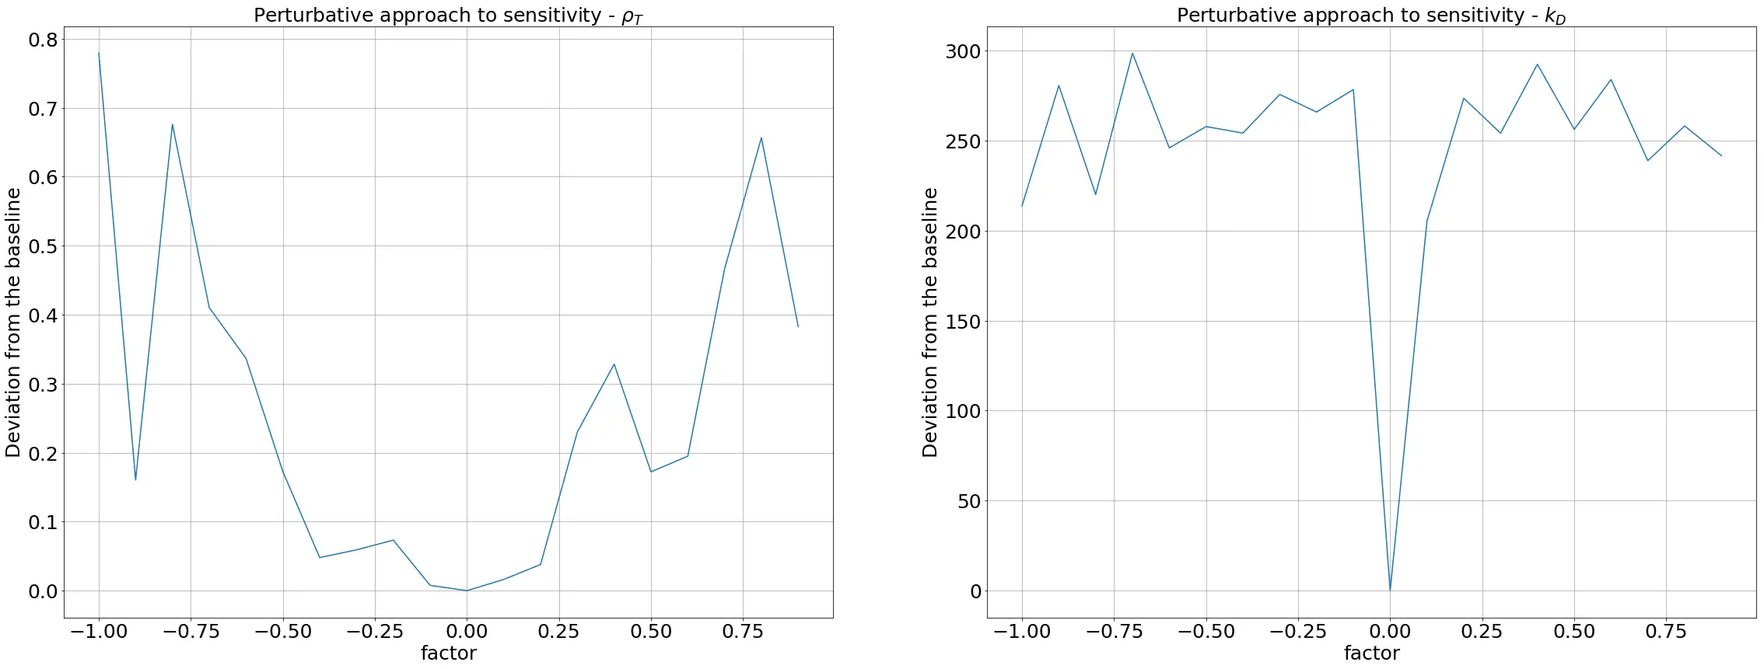
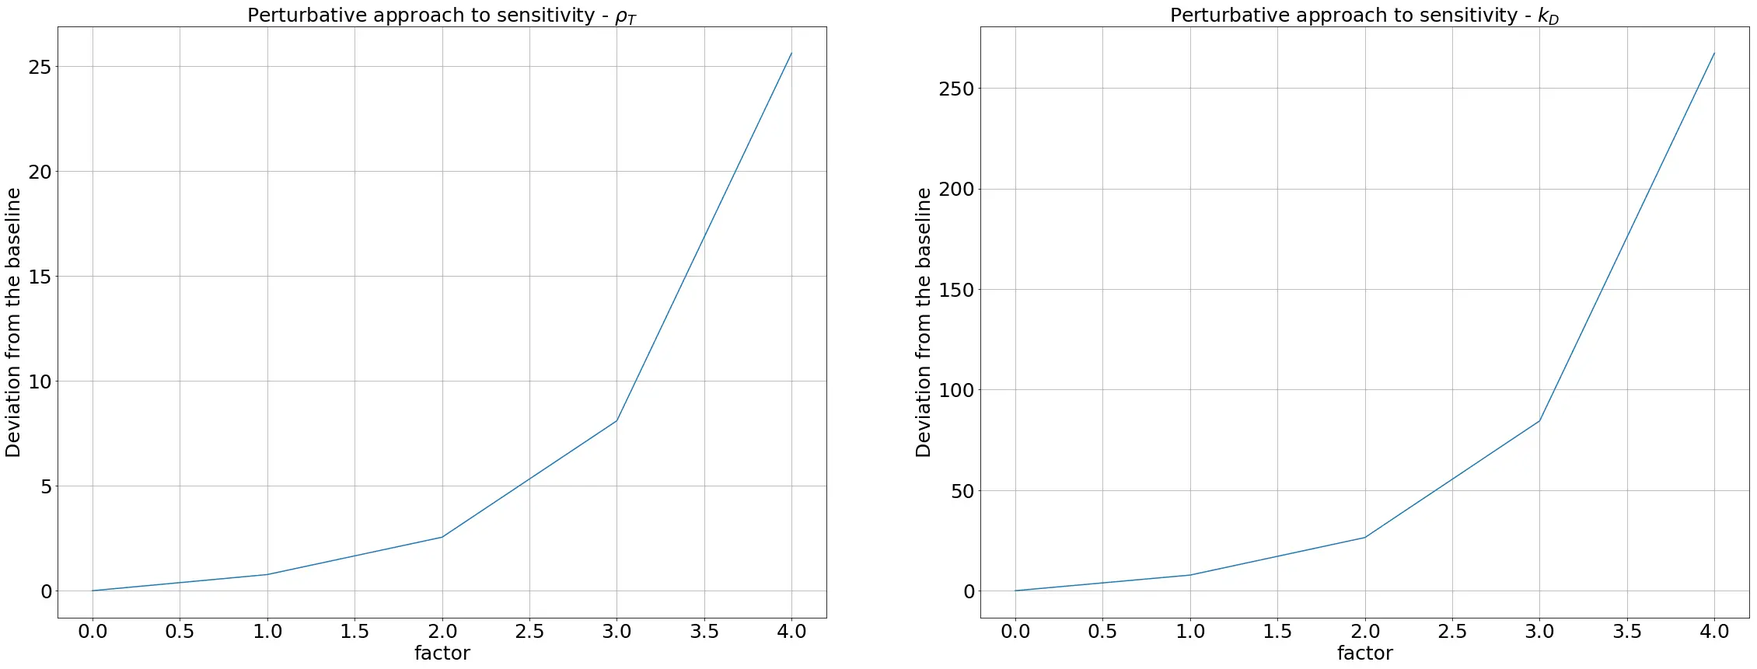
deploy: 0897da0496ac55373201c707f7b9b6d2a4cecc0c

diff --git a/Model/Kill_Switch/index.html b/Model/Kill_Switch/index.html
@@ -1,3 +1,3 @@
 <html lang="en"><head><meta charset="UTF-8"><meta name="viewport" content="width=device-width,initial-scale=1"><title>Kill Switch | SugarGain | iGEM BITS Goa</title><script src="https://2020.igem.org/common/MathJax-2.5-latest/MathJax.js?config=TeX-AMS-MML_HTMLorMML"></script><link href="../../css/content.css" rel="stylesheet"></head><body><nav id="main-nav"><div class="navbar bg-none nav-transparent"><div class="row" id="navbar-row"><a class="navbar-brand" href="/wiki/"><i class="navbar-logo"></i><span> Sugar<strong>Gain</strong></span></a><div class="controls h-100 d-flex align-items-center"><div class="align-items-center" id="themeSwitchWrapper"><i class="icon-light"></i><div id="themeSwitch"><label class="switch" for="themeSwitchInput"><input type="checkbox" id="themeSwitchInput"><span class="slider round"></span></label></div><i class="icon-dark"></i></div><button class="btn" id="menuSwitch"><div class="menu-icon"></div></button></div></div><div class="row w-100" id="progress-container-wrapper"><div id="progress-container"><div id="nav-progress-bar"></div></div></div></div><div id="fullscreenMenuWrapper"><div class="w-100 h-100" id="fullscreenMenu"><div class="container-fluid d-flex align-items-stretch pr-0 flex-column"><div class="row nav-header w-100"><div class="col-xl-3 col-lg-2"><div class="teamLogo"></div></div><div class="col-xl-6 col-lg-8"></div><div class="col-xl-3 col-lg-2"></div></div><div class="row flex-grow-1 w-100"><div class="col-xl-3 col-lg-2"></div><div class="col-xl-6 col-lg-8 d-flex justify-content-between flex-column" id="menuContent"><div class="row"><div class="col-md-6" id="nav-headings"><ul role="tablist"><li><a href="javascript:;" id="Project-tab">Project</a><ul class="mobile-nav-items"><li><a href="/wiki/Description">Description</a></li><li><a href="/wiki/Design">Design</a></li><li><a href="/wiki/Model">Model</a></li><li><a href="/wiki/Engineering">Engineering</a></li><li><a href="/wiki/Safety">Safety</a></li><li><a href="/wiki/Implementation">Implementation</a></li></ul></li><li><a href="javascript:;" id="Human_Practices-tab">Human Practices</a><ul class="mobile-nav-items"><li><a href="/wiki/Human_Practices">Human-Centered Design</a></li><li><a href="/wiki/Education">Science Communication</a></li><li><a href="/wiki/Accessibility">Accessibility</a></li></ul></li><li><a href="javascript:;" id="Parts-tab">Parts</a><ul class="mobile-nav-items"><li><a href="/wiki/Part_Collection">Part Collection</a></li><li><a href="/wiki/Parts">Parts</a></li></ul></li><li><a href="javascript:;" id="Journal-tab">Journal</a><ul class="mobile-nav-items"><li><a href="/wiki/Notebook">Notebook</a></li><li><a href="/wiki/Experiments">Experiments</a></li><li><a href="/wiki/Appendix">Appendix</a></li></ul></li><li><a href="javascript:;" id="Team-tab">Team</a><ul class="mobile-nav-items"><li><a href="/wiki/Team">Team</a></li><li><a href="/wiki/Attributions">Attributions</a></li><li><a href="/wiki/Collaborations">Collaborations</a></li></ul></li><li><a href="javascript:;" id="Contribution-tab">Contribution</a><ul class="mobile-nav-items"><li><a href="/wiki/Contribution">Overview</a></li><li><a href="/wiki/Software">Software</a></li></ul></li><li><a href="javascript:;" id="Judging-tab">Judging</a><ul class="mobile-nav-items"><li><a href="/wiki/Judging">Judging</a></li></ul></li><li><a href="javascript:;" id="Other_Areas-tab">Other Areas</a><ul class="mobile-nav-items"><li><a href="/wiki/Dance">Dance</a></li><li><a href="/wiki/Policy">Policy</a></li><li><a href="/wiki/Entrepreneurship">Entrepreneurship</a></li></ul></li></ul></div><div class="col-6" id="nav-items"><div class="tab-content"><div class="tab-pane" id="Project-pane"><ul><li><a href="/wiki/Description">Description</a></li><li><a href="/wiki/Design">Design</a></li><li><a href="/wiki/Model">Model</a></li><li><a href="/wiki/Engineering">Engineering</a></li><li><a href="/wiki/Safety">Safety</a></li><li><a href="/wiki/Implementation">Implementation</a></li></ul></div><div class="tab-pane" id="Human_Practices-pane"><ul><li><a href="/wiki/Human_Practices">Human-Centered Design</a></li><li><a href="/wiki/Education">Science Communication</a></li><li><a href="/wiki/Accessibility">Accessibility</a></li></ul></div><div class="tab-pane" id="Parts-pane"><ul><li><a href="/wiki/Part_Collection">Part Collection</a></li><li><a href="/wiki/Parts">Parts</a></li></ul></div><div class="tab-pane" id="Journal-pane"><ul><li><a href="/wiki/Notebook">Notebook</a></li><li><a href="/wiki/Experiments">Experiments</a></li><li><a href="/wiki/Appendix">Appendix</a></li></ul></div><div class="tab-pane" id="Team-pane"><ul><li><a href="/wiki/Team">Team</a></li><li><a href="/wiki/Attributions">Attributions</a></li><li><a href="/wiki/Collaborations">Collaborations</a></li></ul></div><div class="tab-pane" id="Contribution-pane"><ul><li><a href="/wiki/Contribution">Overview</a></li><li><a href="/wiki/Software">Software</a></li></ul></div><div class="tab-pane" id="Judging-pane"><ul><li><a href="/wiki/Judging">Judging</a></li></ul></div><div class="tab-pane" id="Other_Areas-pane"><ul><li><a href="/wiki/Dance">Dance</a></li><li><a href="/wiki/Policy">Policy</a></li><li><a href="/wiki/Entrepreneurship">Entrepreneurship</a></li></ul></div></div></div></div><div class="row"><div id="contact-links"><ul><li><a href="https://instagram.com/igem_bits" target="_blank" rel="noopener"><i class="insta"></i><span>Instagram</span></a></li><li><a href="https://twitter.com/igembitsgoa" target="_blank" rel="noopener"><i class="twitter"></i><span>Twitter</span></a></li><li><a href="mailto:igembitsgoa@gmail.com" target="_blank" rel="noopener"><i class="email"></i><span>Email</span></a></li><li><a href="/wiki/Sample"><i class="sample"></i><span>Sample</span></a></li></ul></div></div></div><div class="col-xl-3 col-lg-2"></div></div><div class="row nav-footer w-100"><div class="col-xl-3 col-lg-2"></div><div class="col-xl-6 col-lg-8"></div><div class="col-xl-3 col-lg-2"></div></div></div></div></div></nav><style>header {
     background-image: url( ../../assets/img/Description--josh-withers.jpg);
-}</style><header class="d-flex justify-content-center"><div class="custom-container d-flex align-items-end justify-content-between"><div id="heading"><h1>Kill Switch</h1></div><a href="https://unsplash.com/photos/lZ4xZZuk8iA" target="_blank" rel="noopener"><span id="bg-attribution" title="Photo by Josh Withers on Unsplash" data-placement="top"></span></a></div></header><main class="hello"><div class="custom-container"><div class="row"><div class="sidebar"><div class="nav" id="contents"><ul></ul></div></div><div class="content"><article><h1>Introduction</h1><p>The first step involved in modelling the kill switch was to carry out a literature survey to understand the functioning of the module at a molecular level and understand the various mechanisms and reactions involved.</p><p>The kill switch has been designed to be activated by exposure to atmospheric concentrations of oxygen. Oxygen binds to the FNR promoter, thereby suppressing the transcription of the antitoxin and the absence of which leads to an accumulation of toxin in the cell, leading to cell death. Our model was based on the mechanism proposed by Gelens et al. <a href="#citation1">2013</a> with certain modifications that are specific to our construct. Our model involves an <strong>inducible transcription</strong> of the toxin, and whose kinetics are governed by appropriate Hill equations. The diagram below provides a detailed account of the processes and the reaction pathways involved.</p><blockquote><p>Image describing the construct with all its products.</p></blockquote><p>Six different chemical species have to be accounted for: the toxin mRNA (\( M_T \)), the antitoxin mRNA (\( M_A \)), the toxin (\( T \)), the antitoxin (\( A \)), a complex of the form \( TA \) (\( C_1 \)), and another complex of the form \( TAT \) (\( C_2 \)); the concentrations of these species are determined by forming ordinary differential equations.</p><p>We make the following assumptions in our model:</p><ol><li><p>Our inducible mechanisms follow Hill characteristics.</p></li><li><p>(<strong>Quasi-steady state approximation</strong>) Due to a difference in the time scales involved between binding/unbinding of FNR and oxygen (happening in the order of milliseconds) and transcription/translation (happening in the order of minutes), we assume that the concentration of the oxidised FNR promoter, \( [FNR-O_2] \) remains time-invariant, that is, \( \frac{d[FNR-O_2]}{dt} = 0 \).</p></li><li><p>The transcription rates for both the toxin and antitoxin mRNAs were assumed to be approximately similar.</p></li><li><p>The initial concentrations of all chemical species was assumed to be zero.</p></li></ol><h1>Differential Equations</h1><p>We write the coupled <dfn>ODEs ~ Ordinary Differential Equations</dfn> that describe the reactions illustrated above as follows.</p><p>$$ \begin{aligned} \frac{d[M_A]}{dt} &amp;= \rho_A\frac{C_N}{1 + k_D[O_2]} - \delta_A[M_A] \\ \frac{d[M_T]}{dt} &amp;= \rho_TC_N - \delta_T[M_T] \\ \frac{d[A]}{dt} &amp;= \beta_A[M_A] + \theta_c[C_1] - d_A[A] - \alpha_c[T][A] \\ \frac{d[T]}{dt} &amp;= \beta_T[M_T] + \theta_c[C_1] + Fd_A[C_1] + 2Fd_A[C_2] - d_T[T] - \alpha_c[T][A] - \alpha_c[C_1][A] \\ \frac{d[C_1]}{dt} &amp;= \alpha_c[A][T] + \theta_c[C_2] - \theta_c[C_1] - d_T[C_1] - Fd_A[C_1] - \alpha_c[C_1][T] \\ \frac{d[C_2]}{dt} &amp;= \alpha_c[C_1][T] - \theta_c[C_2] - d_T[C_2] - Fd_A[C_2]\\ \end{aligned} $$</p><p>The parameters used in the above set of equations along with their description and numerical values are tabulated below. In the absence of literature on the \( FNR/O_2 \) interactions, we have made educated guessed about some parameter values.</p><table><caption id="table1modelparamtersandtheirnumericalvalues">Table 1: Model paramters and their numerical values</caption><thead><tr><th style="text-align:center">Parameter</th><th style="text-align:center">Description</th><th style="text-align:center">Value</th><th style="text-align:center">Units</th><th style="text-align:center">Reference</th></tr></thead><tbody><tr><td style="text-align:center">\( \rho_A \)</td><td style="text-align:center">Transcription rate of the Antitoxin</td><td style="text-align:center">\(0.1333\)</td><td style="text-align:center">\(\text{s}^{-1}\)</td><td style="text-align:center"><a href="#citation1">Gelens et. al., 2013</a></td></tr><tr><td style="text-align:center">\( \rho_T \)</td><td style="text-align:center">Transcription rate of the Toxin</td><td style="text-align:center">\(0.1333\)</td><td style="text-align:center">\(\text{s}^{-1}\)</td><td style="text-align:center"><a href="#citation1">Gelens et. al., 2013</a></td></tr><tr><td style="text-align:center">\( \beta_A \)</td><td style="text-align:center">Translation rate of the Antitoxin</td><td style="text-align:center">\(0.139\)</td><td style="text-align:center">\(\text{s}^{-1}\)</td><td style="text-align:center"><a href="#citation1">Gelens et. al., 2013</a></td></tr><tr><td style="text-align:center">\( \beta_T \)</td><td style="text-align:center">Translation rate of the Toxin</td><td style="text-align:center">\(0.033\)</td><td style="text-align:center">\(\text{s}^{-1}\)</td><td style="text-align:center"><a href="#citation1">Gelens et. al., 2013</a></td></tr><tr><td style="text-align:center">\( \delta_A \)</td><td style="text-align:center">Decay rate of the Antitoxin mRNA</td><td style="text-align:center">\(0.00203\)</td><td style="text-align:center">\(\text{s}^{-1}\)</td><td style="text-align:center"><a href="#citation1">Gelens et. al., 2013</a></td></tr><tr><td style="text-align:center">\( \delta_T \)</td><td style="text-align:center">Decay rate of the Toxin mRNA</td><td style="text-align:center">\(0.00203\)</td><td style="text-align:center">\(\text{s}^{-1}\)</td><td style="text-align:center"><a href="#citation1">Gelens et. al., 2013</a></td></tr><tr><td style="text-align:center">\( d_A \)</td><td style="text-align:center">Decay rate of the Antitoxin</td><td style="text-align:center">\(2.8881\times 10^{-4}\)</td><td style="text-align:center">\(\text{s}^{-1}\)</td><td style="text-align:center"><a href="#citation1">Gelens et. al., 2013</a></td></tr><tr><td style="text-align:center">\( d_T \)</td><td style="text-align:center">Decay rate of the Toxin</td><td style="text-align:center">\(0.00115524\)</td><td style="text-align:center">\(\text{s}^{-1}\)</td><td style="text-align:center"><a href="#citation1">Gelens et. al., 2013</a></td></tr><tr><td style="text-align:center">\( F \)</td><td style="text-align:center">Decay rate of the Antitoxin in the \( AT \) complex</td><td style="text-align:center">\(0.2\)</td><td style="text-align:center">-</td><td style="text-align:center"><a href="#citation1">Gelens et. al., 2013</a></td></tr><tr><td style="text-align:center">\( \alpha_c \)</td><td style="text-align:center">Rate of complex formation</td><td style="text-align:center">\(2\times 10^6\)</td><td style="text-align:center">\(\text{M}^{-1}\text{s}^{-1}\)</td><td style="text-align:center"><a href="#citation1">Gelens et. al., 2013</a></td></tr><tr><td style="text-align:center">\( \theta_c \)</td><td style="text-align:center">Rate of complex decay</td><td style="text-align:center">\(7.14972\times 10^{-6}\)</td><td style="text-align:center">\(\text{M}^{-1}\text{s}^{-1}\)</td><td style="text-align:center"><a href="#citation1">Gelens et. al., 2013</a></td></tr><tr><td style="text-align:center">\( C_N \)</td><td style="text-align:center">Plasmid copy number</td><td style="text-align:center">16</td><td style="text-align:center">-</td><td style="text-align:center"></td></tr><tr><td style="text-align:center">\( k_D \)</td><td style="text-align:center">Dissociation constant for FNR and \( O_2 \)</td><td style="text-align:center">\(800\times10^{-6}\)</td><td style="text-align:center">\(\text{s}^{-1}\)</td><td style="text-align:center"><a href="#citation2">Sutton, V. R., et al., 2012</a></td></tr></tbody></table><h1>Simulations of the model</h1><p>As we had no lab access, we could not verify the values of parameters through experimental analysis; however, we have designed experiments that we would have conducted to verify the parameter values through curve fitting. These experiments can be found on our <a href="/Experiments">experiments</a> page. The next step would be to solve the above ODEs numerically to obtain the concentrations of free toxin and antitoxin.</p><p>To activate the kill switch, we require a &quot;trigger&quot;, or a change in the surrounding oxygen concentration. This trigger was achieved by modelling the oxygen concentration as a step function, \( O(t) \), that represents the concentration of oxygen in the environment of the cell. This function can be expressed as</p><p>$$ O(t) = O_1H(300 - t) + O_2H(t - 300) $$</p><p>where \( O_1 \text{ and } O_2\) are the oxygen concentrations inside and outside the sugarcane matrix, respectively and \( H(x) \) is the Heaviside step function.</p><p>This function was constructed such that the kill switch would be activated at the \(t = 300 \text{ min}\) mark. This time instance was selected to allow us to observe the steady state concentrations of both, the toxin and antitoxin. The jump in the concentration, given by the point of discontinuity in the step function, corresponds to the exposure of the cell to an aerobic environment, with atmospheric levels of oxygen.</p><p>The ODEs were solved numerically using SciPy's <code>solve_ivp</code> method using the <a href="/Appendix">Radau</a> algorithm and the concentrations of major chemical species were plotted against time.</p><div class="image"><img src="../../assets/img/Kill_Switch--KillSwitchGraph.png" alt="Simulation of the kill switch construct"><p>Figure 1: Simulation of the kill switch construct</p></div><p>From the graph, it is seen that around the \(t = 300 \text{ min}\) mark (when the kill switch is activated), the concentration of free ccdA begins to drop, reaches a minimum and that of free ccdB beings to rise. After a while, the only major chemical species in the cellular system are the toxin (ccdB) and a highly stable TAT complexe. Therefore, the toxin accumulates in the cell and reaches a high enough concentration to kill it.</p><h1>Sensitivity Analysis</h1><p>After establishing the models for the system, we wanted to carry out a sensitivity analysis to identify parameters which could be used to fine-tune our kill switch. As a part of the sensitivity analysis, we selected a few model parameters and varied them by adding Gaussian noise proportional to a given factor. The change in the output as a result of this perturbation was measured and studied.</p><div class="image"><img src="../../assets/img/Kill_Switch--Sensitivity.png" alt="Sensitivity analysis of the model"><p>Figure 2: Sensitivity analysis of the model</p></div><p>The results of our sensitivity analysis showed that manipulating parameters associated with the FNR promoter would result in a more significant diference in the model output. Therefore, the amount of toxin produced, and consequently the growth rate of the bacteria can be controlled more easily by varying the \(k_D\) associated with the FNR promoter. Based on these results, we concluded that somehow altering \(k_D\) would lead to a more fine-tuned kill switch.</p><p>Next we wanted to exclusively study the the variation of toxin concentration as a function of the \( k_D \) values. To do this, we used the same approach as mentioned above, where we added a randomized gaussian noise to the \( k_D \) value proportional to a factor (given by \( \alpha\Delta \) in the plot) and studied how the concentration of ccdB would change. The plot we obtained is illustrated below.</p><div class="image"><img src="../../assets/img/Kill_Switch--ccdBvsKd.png" alt="The variation of ccdB toxin concentration with varying k_D values"><p>Figure 3: The variation of ccdB toxin concentration with varying k_D values</p></div><p>This analysis showed us that altering \(k_D\) is an effective tool to increase the sensitivity of the kill switch as the graph indicates shorter response times for a perturbed \(k_D\). The next question was how could this alteration be acheived? Since we did not have access to a lab, we have hypothesised below a few ways that this could be performed.</p><p>The fine-tuning of the kill switch could be achieived by altering the expression rates for the ccdB gene. There are two possible ways to accomplish this:</p><ul><li>Inducing mutations in the promoter region of the gene to alter its affinity towards RNA Polymerase — which would affect the trascription and translation rates; or</li><li>Using the promoter regions of genes with rates in the desired range.</li></ul><p>We can also control the binding of FNR/O2 to its binding site by either:</p><ul><li>Inducing mutations in the operator region to alter the affinities of FNR to the binding site; or</li><li>Inducing mutation in the repressor proteings by altering region that encodes for FNR thereby changing its affinity to the operator site.</li></ul><h1>Conclusion</h1><p>From the model we created, we have derived the following conclusions:</p><ol><li>The arrest of growth can be observed around 50-70 minutes after the kill switch has been activated.</li><li>This time can be brought down further by tuning the model to change the \( k_D \) value for FNR/O2.</li></ol><p>We would also like to state at this point that it is not enitirely certain if a changed \(k_D\) would really be effective in real-life. Although our in-silico analysis shows that some change is possible, it cannot be formally verified unless experiments are conducted.</p></article><div class="d-flex justify-content-between my-5"></div><article id="references"><h1>References</h1><ol><li id="citation1"><p class="author">Gelens, L., Hill, L., Vandervelde, A., Danckaert, J., &amp; Loris, R. (2013).</p><cite>A General Model for Toxin-Antitoxin Module Dynamics Can Explain Persister Cell Formation in E. coli.</cite><p><span class="journalTitle">PLoS Computational Biology</span> <span class="journalInfo">9(8), e1003190.</span></p><a class="in-text" href="https://doi.org/10.1371/journal.pcbi.1003190" target="_blank" rel="noopener">CrossRef</a><a class="in-text" href="https://scholar.google.com/scholar?q=A General Model for Toxin-Antitoxin Module Dynamics Can Explain Persister Cell Formation in E. coli." target="_blank" rel="noopener">Google Scholar</a><a class="in-text" href="#intext1">Back to text</a></li><li id="citation2"><p class="author">Sutton, V. R., Mettert, E. L., Beinert, H., &amp; Kiley, P. J. (2004).</p><cite>Kinetic Analysis of the Oxidative Conversion of the [4Fe-4S]2+ Cluster of FNR to a [2Fe-2S]2+ Cluster.</cite><p><span class="journalTitle">Journal of Bacteriology</span> <span class="journalInfo">186(23), 8018-8025.</span></p><a class="in-text" href="https://doi.org/10.1128/jb.186.23.8018-8025.2004" target="_blank" rel="noopener">CrossRef</a><a class="in-text" href="https://scholar.google.com/scholar?q=Kinetic Analysis of the Oxidative Conversion of the [4Fe-4S]2+ Cluster of FNR to a [2Fe-2S]2+ Cluster." target="_blank" rel="noopener">Google Scholar</a><a class="in-text" href="#intext2">Back to text</a></li></ol></article></div></div></div></main><footer><div id="footerNav"><div class="container"><div class="row justify-content-between"><div class="col-sm-6 col-md-4 col-lg-3 py-2"><a class="footer-heading">Project</a><ul><li class="py-1"><a href="/wiki/Description">Description</a></li><li class="py-1"><a href="/wiki/Design">Design</a></li><li class="py-1"><a href="/wiki/Model">Model</a></li><li class="py-1"><a href="/wiki/Engineering">Engineering</a></li><li class="py-1"><a href="/wiki/Safety">Safety</a></li><li class="py-1"><a href="/wiki/Implementation">Implementation</a></li></ul></div><div class="col-sm-6 col-md-4 col-lg-3 py-2"><a class="footer-heading">Human Practices</a><ul><li class="py-1"><a href="/wiki/Human_Practices">Human-Centered Design</a></li><li class="py-1"><a href="/wiki/Education">Science Communication</a></li><li class="py-1"><a href="/wiki/Accessibility">Accessibility</a></li></ul></div><div class="col-sm-6 col-md-4 col-lg-3 py-2"><a class="footer-heading">Parts</a><ul><li class="py-1"><a href="/wiki/Part_Collection">Part Collection</a></li><li class="py-1"><a href="/wiki/Parts">Parts</a></li></ul></div><div class="col-sm-6 col-md-4 col-lg-3 py-2"><a class="footer-heading">Journal</a><ul><li class="py-1"><a href="/wiki/Notebook">Notebook</a></li><li class="py-1"><a href="/wiki/Experiments">Experiments</a></li><li class="py-1"><a href="/wiki/Appendix">Appendix</a></li></ul></div><div class="col-sm-6 col-md-4 col-lg-3 py-2"><a class="footer-heading">Team</a><ul><li class="py-1"><a href="/wiki/Team">Team</a></li><li class="py-1"><a href="/wiki/Attributions">Attributions</a></li><li class="py-1"><a href="/wiki/Collaborations">Collaborations</a></li></ul></div><div class="col-sm-6 col-md-4 col-lg-3 py-2"><a class="footer-heading">Contribution</a><ul><li class="py-1"><a href="/wiki/Contribution">Overview</a></li><li class="py-1"><a href="/wiki/Software">Software</a></li></ul></div><div class="col-sm-6 col-md-4 col-lg-3 py-2"><a class="footer-heading">Judging</a><ul><li class="py-1"><a href="/wiki/Judging">Judging</a></li></ul></div><div class="col-sm-6 col-md-4 col-lg-3 py-2"><a class="footer-heading">Other Areas</a><ul><li class="py-1"><a href="/wiki/Dance">Dance</a></li><li class="py-1"><a href="/wiki/Policy">Policy</a></li><li class="py-1"><a href="/wiki/Entrepreneurship">Entrepreneurship</a></li></ul></div></div></div></div><div id="footerBrand"><div class="container"><div class="row justify-content-center"><div id="footerTeamLogo"></div><div id="BITSLogo"></div></div><p>iGEM BITS Goa</p><p>Birla Institute of Technology and Science, Pilani</p><p>K K Birla Goa Campus</p><p>NH-17B, Sancoale, Goa, India</p><div class="row justify-content-center" id="footerIcons"><a class="gmail" href="mailto:igembitsgoa@gmail.com"></a><a class="insta" href="https://instagram.com/igem_bits" target="_blank" rel="noopener"></a><a class="twitter" href="https://twitter.com/igembitsgoa" target="_blank" rel="noopener"></a></div></div></div></footer><script src="../../content.bundle.js"></script></body></html>
+}</style><header class="d-flex justify-content-center"><div class="custom-container d-flex align-items-end justify-content-between"><div id="heading"><h1>Kill Switch</h1></div><a href="https://unsplash.com/photos/lZ4xZZuk8iA" target="_blank" rel="noopener"><span id="bg-attribution" title="Photo by Josh Withers on Unsplash" data-placement="top"></span></a></div></header><main class="hello"><div class="custom-container"><div class="row"><div class="sidebar"><div class="nav" id="contents"><ul></ul></div></div><div class="content"><article><h1>Introduction</h1><p>The first step involved in modelling the kill switch was to carry out a literature survey to understand the functioning of the module at a molecular level and understand the various mechanisms and reactions involved.</p><p>The kill switch has been designed to be activated by exposure to atmospheric concentrations of oxygen. Oxygen binds to the FNR promoter, thereby suppressing the transcription of the antitoxin and the absence of which leads to an accumulation of toxin in the cell, leading to cell death. Our model was based on the mechanism proposed by Gelens et al. <a href="#citation1">2013</a> with certain modifications that are specific to our construct. Our model involves an <strong>inducible transcription</strong> of the toxin, and whose kinetics are governed by appropriate Hill equations. The diagram below provides a detailed account of the processes and the reaction pathways involved.</p><div class="image"><img src="../../assets/img/Kill_Switch--KillSwitchDynamics.svg" alt="The dynamics of the kill switch construct" style="width: 65%"><p>Figure 1: The dynamics of the kill switch construct</p></div><p>Six different chemical species have to be accounted for: the toxin mRNA (\( M_T \)), the antitoxin mRNA (\( M_A \)), the toxin (\( T \)), the antitoxin (\( A \)), a complex of the form \( TA \) (\( C_1 \)), and another complex of the form \( TAT \) (\( C_2 \)); the concentrations of these species are determined by forming ordinary differential equations.</p><p>We make the following assumptions in our model:</p><ol><li><p>Our inducible mechanisms follow Hill characteristics.</p></li><li><p>(<strong>Quasi-steady state approximation</strong>) Due to a difference in the time scales involved between binding/unbinding of FNR and oxygen (happening in the order of milliseconds) and transcription/translation (happening in the order of minutes), we assume that the concentration of the oxidised FNR promoter, \( [FNR-O_2] \) remains time-invariant, that is, \( \frac{d[FNR-O_2]}{dt} = 0 \).</p></li><li><p>The transcription rates for both the toxin and antitoxin mRNAs were assumed to be approximately similar.</p></li><li><p>The initial concentrations of all chemical species was assumed to be zero.</p></li></ol><h1>Differential Equations</h1><p>We write the coupled <dfn>ODEs ~ Ordinary Differential Equations</dfn> that describe the reactions illustrated above as follows.</p><p>$$ \begin{aligned} \frac{d[M_A]}{dt} &amp;= \rho_A\frac{C_N}{1 + k_D[O_2]} - \delta_A[M_A] \\ \frac{d[M_T]}{dt} &amp;= \rho_TC_N - \delta_T[M_T] \\ \frac{d[A]}{dt} &amp;= \beta_A[M_A] + \theta_c[C_1] - d_A[A] - \alpha_c[T][A] \\ \frac{d[T]}{dt} &amp;= \beta_T[M_T] + \theta_c[C_1] + Fd_A[C_1] + 2Fd_A[C_2] - d_T[T] - \alpha_c[T][A] - \alpha_c[C_1][A] \\ \frac{d[C_1]}{dt} &amp;= \alpha_c[A][T] + \theta_c[C_2] - \theta_c[C_1] - d_T[C_1] - Fd_A[C_1] - \alpha_c[C_1][T] \\ \frac{d[C_2]}{dt} &amp;= \alpha_c[C_1][T] - \theta_c[C_2] - d_T[C_2] - Fd_A[C_2]\\ \end{aligned} $$</p><p>The parameters used in the above set of equations along with their description and numerical values are tabulated below. In the absence of literature on the \( FNR/O_2 \) interactions, we have made educated guessed about some parameter values.</p><table><caption id="table1modelparamtersandtheirnumericalvalues">Table 1: Model paramters and their numerical values</caption><thead><tr><th style="text-align:center">Parameter</th><th style="text-align:center">Description</th><th style="text-align:center">Value</th><th style="text-align:center">Units</th><th style="text-align:center">Reference</th></tr></thead><tbody><tr><td style="text-align:center">\( \rho_A \)</td><td style="text-align:center">Transcription rate of the Antitoxin</td><td style="text-align:center">\(0.1333\)</td><td style="text-align:center">\(\text{s}^{-1}\)</td><td style="text-align:center"><a href="#citation1">Gelens et. al., 2013</a></td></tr><tr><td style="text-align:center">\( \rho_T \)</td><td style="text-align:center">Transcription rate of the Toxin</td><td style="text-align:center">\(0.1333\)</td><td style="text-align:center">\(\text{s}^{-1}\)</td><td style="text-align:center"><a href="#citation1">Gelens et. al., 2013</a></td></tr><tr><td style="text-align:center">\( \beta_A \)</td><td style="text-align:center">Translation rate of the Antitoxin</td><td style="text-align:center">\(0.139\)</td><td style="text-align:center">\(\text{s}^{-1}\)</td><td style="text-align:center"><a href="#citation1">Gelens et. al., 2013</a></td></tr><tr><td style="text-align:center">\( \beta_T \)</td><td style="text-align:center">Translation rate of the Toxin</td><td style="text-align:center">\(0.033\)</td><td style="text-align:center">\(\text{s}^{-1}\)</td><td style="text-align:center"><a href="#citation1">Gelens et. al., 2013</a></td></tr><tr><td style="text-align:center">\( \delta_A \)</td><td style="text-align:center">Decay rate of the Antitoxin mRNA</td><td style="text-align:center">\(0.00203\)</td><td style="text-align:center">\(\text{s}^{-1}\)</td><td style="text-align:center"><a href="#citation1">Gelens et. al., 2013</a></td></tr><tr><td style="text-align:center">\( \delta_T \)</td><td style="text-align:center">Decay rate of the Toxin mRNA</td><td style="text-align:center">\(0.00203\)</td><td style="text-align:center">\(\text{s}^{-1}\)</td><td style="text-align:center"><a href="#citation1">Gelens et. al., 2013</a></td></tr><tr><td style="text-align:center">\( d_A \)</td><td style="text-align:center">Decay rate of the Antitoxin</td><td style="text-align:center">\(2.8881\times 10^{-4}\)</td><td style="text-align:center">\(\text{s}^{-1}\)</td><td style="text-align:center"><a href="#citation1">Gelens et. al., 2013</a></td></tr><tr><td style="text-align:center">\( d_T \)</td><td style="text-align:center">Decay rate of the Toxin</td><td style="text-align:center">\(0.00115524\)</td><td style="text-align:center">\(\text{s}^{-1}\)</td><td style="text-align:center"><a href="#citation1">Gelens et. al., 2013</a></td></tr><tr><td style="text-align:center">\( F \)</td><td style="text-align:center">Decay rate of the Antitoxin in the \( AT \) complex</td><td style="text-align:center">\(0.2\)</td><td style="text-align:center">-</td><td style="text-align:center"><a href="#citation1">Gelens et. al., 2013</a></td></tr><tr><td style="text-align:center">\( \alpha_c \)</td><td style="text-align:center">Rate of complex formation</td><td style="text-align:center">\(2\times 10^6\)</td><td style="text-align:center">\(\text{M}^{-1}\text{s}^{-1}\)</td><td style="text-align:center"><a href="#citation1">Gelens et. al., 2013</a></td></tr><tr><td style="text-align:center">\( \theta_c \)</td><td style="text-align:center">Rate of complex decay</td><td style="text-align:center">\(7.14972\times 10^{-6}\)</td><td style="text-align:center">\(\text{M}^{-1}\text{s}^{-1}\)</td><td style="text-align:center"><a href="#citation1">Gelens et. al., 2013</a></td></tr><tr><td style="text-align:center">\( C_N \)</td><td style="text-align:center">Plasmid copy number</td><td style="text-align:center">16</td><td style="text-align:center">-</td><td style="text-align:center"></td></tr><tr><td style="text-align:center">\( k_D \)</td><td style="text-align:center">Dissociation constant for FNR and \( O_2 \)</td><td style="text-align:center">\(800\times10^{-6}\)</td><td style="text-align:center">\(\text{s}^{-1}\)</td><td style="text-align:center"><a href="#citation2">Sutton, V. R., et al., 2012</a></td></tr></tbody></table><h1>Simulations of the model</h1><p>As we had no lab access, we could not verify the values of parameters through experimental analysis; however, we have designed experiments that we would have conducted to verify the parameter values through curve fitting. These experiments can be found on our <a href="/Experiments">experiments</a> page. The next step would be to solve the above ODEs numerically to obtain the concentrations of free toxin and antitoxin.</p><p>To activate the kill switch, we require a &quot;trigger&quot;, or a change in the surrounding oxygen concentration. This trigger was achieved by modelling the oxygen concentration as a step function, \( O(t) \), that represents the concentration of oxygen in the environment of the cell. This function can be expressed as</p><p>$$ O(t) = O_1H(300 - t) + O_2H(t - 300) $$</p><p>where \( O_1 \text{ and } O_2\) are the oxygen concentrations inside and outside the sugarcane matrix, respectively and \( H(x) \) is the Heaviside step function.</p><p>This function was constructed such that the kill switch would be activated at the \(t = 300 \text{ min}\) mark. This time instance was selected to allow us to observe the steady state concentrations of both, the toxin and antitoxin. The jump in the concentration, given by the point of discontinuity in the step function, corresponds to the exposure of the cell to an aerobic environment, with atmospheric levels of oxygen.</p><p>The ODEs were solved numerically using SciPy's <code>solve_ivp</code> method using the <a href="/Appendix">Radau</a> algorithm and the concentrations of major chemical species were plotted against time.</p><div class="image"><img src="../../assets/img/Kill_Switch--KillSwitchGraph.png" alt="Simulation of the kill switch construct"><p>Figure 2: Simulation of the kill switch construct</p></div><p>From the graph, it is seen that around the \(t = 300 \text{ min}\) mark (when the kill switch is activated), the concentration of free ccdA begins to drop, reaches a minimum and that of free ccdB beings to rise. After a while (around 55-60 minutes or so), the only major chemical species in the cellular system are the toxin (ccdB) and a highly stable TAT complexes. Therefore, the toxin accumulates in the cell and reaches a high enough concentration to kill it.</p><h1>Sensitivity Analysis</h1><p>After establishing the models for the system, we wanted to carry out a sensitivity analysis to identify parameters which could be used to fine-tune our kill switch. As a part of the sensitivity analysis, we selected a few model parameters and varied them by multiplying them with a term proportational to a given factor. The change in the output as a result of this perturbation was measured and studied.</p><div class="image"><img src="../../assets/img/Kill_Switch--Sensitivity.png" alt="Sensitivity analysis of the model"><p>Figure 3: Sensitivity analysis of the model</p></div><p>The results of our sensitivity analysis showed that manipulating parameters associated with the FNR promoter would result in a more significant diference in the model output. Therefore, the amount of toxin produced, and consequently the growth rate of the bacteria can be controlled more easily by varying the \(k_D\) associated with the FNR promoter. Based on these results, we concluded that altering \(k_D\) by means such as mutagenesis would lead to a more fine-tuned kill switch.</p><p>Next we wanted to exclusively study the the variation of toxin concentration as a function of the \( k_D \) values. To do this, we used the same approach as mentioned above, where multiplied a term proportional to a factor with \( k_D \) value and studied how the concentration of ccdB would change. The plot we obtained is illustrated below.</p><div class="image"><img src="../../assets/img/Kill_Switch--ccdBvsKd.png" alt="The variation of ccdB toxin concentration with varying k_D values"><p>Figure 4: The variation of ccdB toxin concentration with varying k_D values</p></div><p>This analysis showed us that altering \(k_D\) is an effective tool to increase the sensitivity of the kill switch as the graph indicates shorter response times for a perturbed \(k_D\). The next question was how could this alteration be acheived? Since we did not have access to a lab, we have hypothesised below a few ways that this could be performed.</p><p>The fine-tuning of the kill switch could be achieived by altering the expression rates for the ccdB gene. There are two possible ways to accomplish this:</p><ul><li>Inducing mutations in the promoter region of the gene to alter its affinity towards RNA Polymerase — which would affect the trascription and translation rates; or</li><li>Using the promoter regions of genes with rates in the desired range.</li></ul><p>We can also control the binding of FNR/O2 to its binding site by either:</p><ul><li>Inducing mutations in the operator region to alter the affinities of FNR to the binding site; or</li><li>Inducing mutation in the repressor proteings by altering region that encodes for FNR thereby changing its affinity to the operator site.</li></ul><h1>Conclusions</h1><p>From the model we created, we have derived the following conclusions:</p><ol><li>The arrest of growth can be observed around 50-70 minutes after the kill switch has been activated.</li><li>This time can be brought down further by tuning the model to change the \( k_D \) value for FNR/O2.</li></ol></article><div class="d-flex justify-content-between my-5"></div><article id="references"><h1>References</h1><ol><li id="citation1"><p class="author">Gelens, L., Hill, L., Vandervelde, A., Danckaert, J., &amp; Loris, R. (2013).</p><cite>A General Model for Toxin-Antitoxin Module Dynamics Can Explain Persister Cell Formation in E. coli.</cite><p><span class="journalTitle">PLoS Computational Biology</span> <span class="journalInfo">9(8), e1003190.</span></p><a class="in-text" href="https://doi.org/10.1371/journal.pcbi.1003190" target="_blank" rel="noopener">CrossRef</a><a class="in-text" href="https://scholar.google.com/scholar?q=A General Model for Toxin-Antitoxin Module Dynamics Can Explain Persister Cell Formation in E. coli." target="_blank" rel="noopener">Google Scholar</a><a class="in-text" href="#intext1">Back to text</a></li><li id="citation2"><p class="author">Sutton, V. R., Mettert, E. L., Beinert, H., &amp; Kiley, P. J. (2004).</p><cite>Kinetic Analysis of the Oxidative Conversion of the [4Fe-4S]2+ Cluster of FNR to a [2Fe-2S]2+ Cluster.</cite><p><span class="journalTitle">Journal of Bacteriology</span> <span class="journalInfo">186(23), 8018-8025.</span></p><a class="in-text" href="https://doi.org/10.1128/jb.186.23.8018-8025.2004" target="_blank" rel="noopener">CrossRef</a><a class="in-text" href="https://scholar.google.com/scholar?q=Kinetic Analysis of the Oxidative Conversion of the [4Fe-4S]2+ Cluster of FNR to a [2Fe-2S]2+ Cluster." target="_blank" rel="noopener">Google Scholar</a><a class="in-text" href="#intext2">Back to text</a></li></ol></article></div></div></div></main><footer><div id="footerNav"><div class="container"><div class="row justify-content-between"><div class="col-sm-6 col-md-4 col-lg-3 py-2"><a class="footer-heading">Project</a><ul><li class="py-1"><a href="/wiki/Description">Description</a></li><li class="py-1"><a href="/wiki/Design">Design</a></li><li class="py-1"><a href="/wiki/Model">Model</a></li><li class="py-1"><a href="/wiki/Engineering">Engineering</a></li><li class="py-1"><a href="/wiki/Safety">Safety</a></li><li class="py-1"><a href="/wiki/Implementation">Implementation</a></li></ul></div><div class="col-sm-6 col-md-4 col-lg-3 py-2"><a class="footer-heading">Human Practices</a><ul><li class="py-1"><a href="/wiki/Human_Practices">Human-Centered Design</a></li><li class="py-1"><a href="/wiki/Education">Science Communication</a></li><li class="py-1"><a href="/wiki/Accessibility">Accessibility</a></li></ul></div><div class="col-sm-6 col-md-4 col-lg-3 py-2"><a class="footer-heading">Parts</a><ul><li class="py-1"><a href="/wiki/Part_Collection">Part Collection</a></li><li class="py-1"><a href="/wiki/Parts">Parts</a></li></ul></div><div class="col-sm-6 col-md-4 col-lg-3 py-2"><a class="footer-heading">Journal</a><ul><li class="py-1"><a href="/wiki/Notebook">Notebook</a></li><li class="py-1"><a href="/wiki/Experiments">Experiments</a></li><li class="py-1"><a href="/wiki/Appendix">Appendix</a></li></ul></div><div class="col-sm-6 col-md-4 col-lg-3 py-2"><a class="footer-heading">Team</a><ul><li class="py-1"><a href="/wiki/Team">Team</a></li><li class="py-1"><a href="/wiki/Attributions">Attributions</a></li><li class="py-1"><a href="/wiki/Collaborations">Collaborations</a></li></ul></div><div class="col-sm-6 col-md-4 col-lg-3 py-2"><a class="footer-heading">Contribution</a><ul><li class="py-1"><a href="/wiki/Contribution">Overview</a></li><li class="py-1"><a href="/wiki/Software">Software</a></li></ul></div><div class="col-sm-6 col-md-4 col-lg-3 py-2"><a class="footer-heading">Judging</a><ul><li class="py-1"><a href="/wiki/Judging">Judging</a></li></ul></div><div class="col-sm-6 col-md-4 col-lg-3 py-2"><a class="footer-heading">Other Areas</a><ul><li class="py-1"><a href="/wiki/Dance">Dance</a></li><li class="py-1"><a href="/wiki/Policy">Policy</a></li><li class="py-1"><a href="/wiki/Entrepreneurship">Entrepreneurship</a></li></ul></div></div></div></div><div id="footerBrand"><div class="container"><div class="row justify-content-center"><div id="footerTeamLogo"></div><div id="BITSLogo"></div></div><p>iGEM BITS Goa</p><p>Birla Institute of Technology and Science, Pilani</p><p>K K Birla Goa Campus</p><p>NH-17B, Sancoale, Goa, India</p><div class="row justify-content-center" id="footerIcons"><a class="gmail" href="mailto:igembitsgoa@gmail.com"></a><a class="insta" href="https://instagram.com/igem_bits" target="_blank" rel="noopener"></a><a class="twitter" href="https://twitter.com/igembitsgoa" target="_blank" rel="noopener"></a></div></div></div></footer><script src="../../content.bundle.js"></script></body></html>
